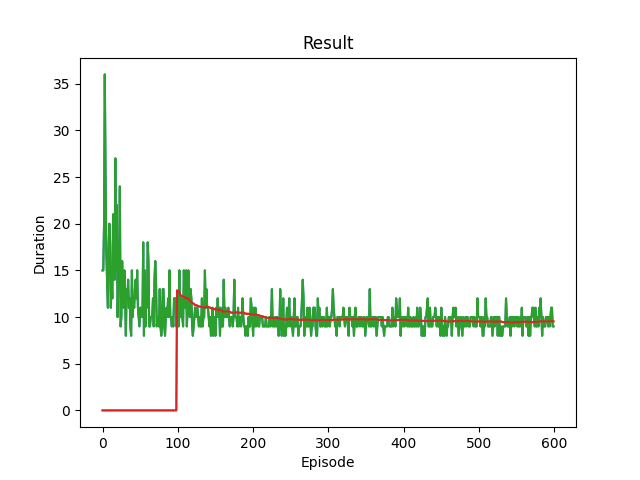
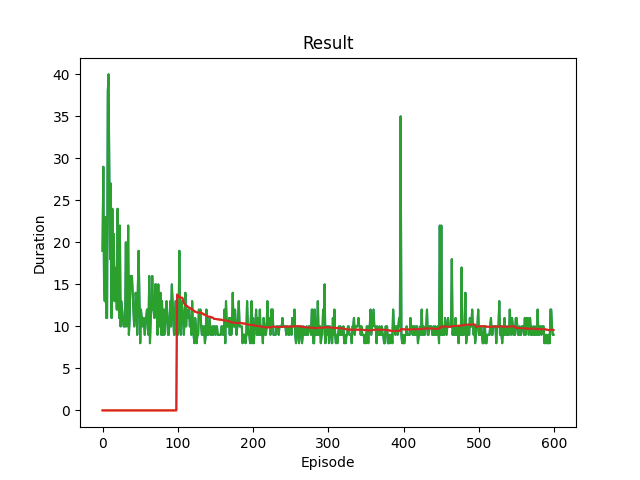
dqn modification

diff --git a/dqn-tutorial/util.py b/dqn-tutorial/util.py
@@ -13,8 +13,9 @@ from replay_memory import ReplayMemory
 env = init.env
 STEPS_DONE = load_hyperparameters.STEPS_DONE
 
+###
 
-def env_init():
+def __env_init():
     n_actions = env.action_space.n
     state, info = env.reset()
     n_observations = len(state)
@@ -44,4 +45,4 @@ def select_action(state):
 
 
 if __name__ == 'util':
-    policy_net, target_net, optimizer, memory = env_init()
+    policy_net, target_net, optimizer, memory = __env_init()

diff --git a/dqn-tutorial/plot.py b/dqn-tutorial/plot.py
@@ -6,6 +6,7 @@ import load_hyperparameters # EPISODE_DURATIONS
 
 EPISODE_DURATIONS = load_hyperparameters.EPISODE_DURATIONS
 
+###
 
 def plot_durations(show_result=False):
     plt.figure(1)

diff --git a/dqn-tutorial/train_loop.py b/dqn-tutorial/train_loop.py
@@ -11,6 +11,7 @@ optimizer = util.optimizer
 policy_net = util.policy_net
 target_net = util.target_net
 
+###
 
 def optimize_model():
     if len(memory) < BATCH_SIZE:

diff --git a/dqn-tutorial/dqn.py b/dqn-tutorial/dqn.py
@@ -1,6 +1,7 @@
 import torch.nn as nn
 import torch.nn.functional as F
 
+###
 
 class DQN(nn.Module):
     def __init__(self, n_observations, n_actions):

diff --git a/dqn-tutorial/load_hyperparameters.py b/dqn-tutorial/load_hyperparameters.py
@@ -1,6 +1,7 @@
 import torch
 import yaml
 
+###
 
 def __load_hyperparameters(config_file):
     with open(config_file, 'r') as file:
